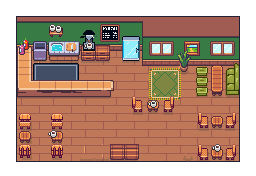
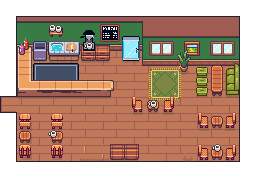
add text messages and cutscenes

Changed region(s): [[0.0, 0.5398, 0.0938, 0.6534]]

diff --git a/OverworldMap.js b/OverworldMap.js
@@ -1,6 +1,7 @@
 class OverworldMap {
     constructor(config) {
         this.gameObjects = config.gameObjects;
+        this.cutsceneSpaces = config.cutsceneSpaces || {}; 
         this.walls = config.walls || {};
 
         this.lowerImage = new Image();
@@ -31,7 +32,7 @@ class OverworldMap {
 
     isSpaceTaken(currentX, currentY, direction) {
         const {x,y} = utils.nextPosition(currentX, currentY, direction);
-        return this.walls[`${x}, ${y}`] || false; // true if wall is there
+        return this.walls[`${x},${y}`] || false; // true if wall is there
     }
 
     mountObjects() {
@@ -64,15 +65,36 @@ class OverworldMap {
         
         // reset NPCs to do idle behavior
         // CHANGE THIS LATER IN PART 17
-        Object.values(this.gameObjects.forEach(object => object.doBehaviorEvent(this)));
+       // Object.values(this.gameObjects.forEach(object => object.doBehaviorEvent(this)));
+    }
+
+
+    checkForActionCutscene() {
+        const hero = this.gameObjects["hero"];
+        const nextCoords = utils.nextPosition(hero.x, hero.y, hero.direction);
+        const match = Object.values(this.gameObjects).find(object => {
+            return `${object.x},${object.y}` === `${nextCoords.x},${nextCoords.y}`
+        });
+        if (!this.isCutscenePlaying && match && match.talking.length) {
+            this.startCutscene(match.talking[0].events);
+        }
+    }
+
+    checkForFootstepCutscene() {
+        const hero = this.gameObjects["hero"];
+        const match = this.cutsceneSpaces[ `${hero.x},${hero.y}` ];
+        console.log({ match });
+        if (!this.isCutscenePlaying && match) {
+            this.startCutscene(match[0].events);
+        }
     }
 
     addWall(x,y) {
-        this.walls[`${x}, ${y}`] = true;
+        this.walls[`${x},${y}`] = true;
     }
 
     removeWall(x,y) {
-        delete this.walls[`${x}, ${y}`]
+        delete this.walls[`${x},${y}`]
     }
 
     moveWall(wasX,wasY, direction) {
@@ -101,6 +123,15 @@ window.OverworldMaps = {
                     { type: "stand", direction: "up", time: 800 },
                     { type: "stand", direction: "right", time: 1200 },
                     { type: "stand", direction: "up", time: 300 }, // loops
+                ],
+                talking: [
+                    {
+                        events: [
+                            {type: "textMessage", text: "can I help you?", faceHero:"npcA"},
+                            {type: "textMessage", text: "I'm busy"},
+                            {who: "hero", type: "walk", direction: "up"},
+                        ]
+                    },
                 ]
             }),
             npcB: new Person({
@@ -113,6 +144,14 @@ window.OverworldMaps = {
                     { type: "walk", direction: "down" },
                     { type: "walk", direction: "right" }, 
                     { type: "walk", direction: "up" },
+                ]
+            }),
+            npcC: new Person({
+                x: utils.withGrid(2),
+                y: utils.withGrid(7),
+                src: "/images/npc2.png",
+                behaviorLoop: [ // idle behavior loop
+                    { type: "stand", direction: "left" },
                 ]
             }),
         },
@@ -223,12 +262,26 @@ window.OverworldMaps = {
             [utils.asGridCoord(0,2)] : true,
             [utils.asGridCoord(0,3)] : true,
             [utils.asGridCoord(0,4)] : true,
-            [utils.asGridCoord(0,5)] : true,
+            //[utils.asGridCoord(0,5)] : true,
+            [utils.asGridCoord(-1,5)] : true,
             [utils.asGridCoord(0,6)] : true,
             [utils.asGridCoord(0,7)] : true,
             [utils.asGridCoord(0,8)] : true,
             [utils.asGridCoord(0,9)] : true,
             [utils.asGridCoord(0,10)] : true,
+        },
+        cutsceneSpaces: {
+            [utils.asGridCoord(0,5)] : [
+                {
+                    events: [
+                        {who: "npcC", type: "walk", direction: "up"},
+                        {who: "npcC", type: "stand", direction: "up", time: 500},
+                        {type: "textMessage", text: "Hey, your shift isn't over!"},
+                        {who: "hero", type: "walk", direction: "right"},
+                        {who: "npcC", type: "walk", direction: "down"},
+                    ]
+                }
+            ]
         }
     },
     Cafe2: {

diff --git a/Overworld.js b/Overworld.js
@@ -41,9 +41,28 @@ class Overworld {
     step();
  }
 
+ bindActionInput() {
+    new KeyPressListener("Enter", () => {
+        // is there a person here to talk to?
+        this.map.checkForActionCutscene();
+    })
+ }
+
+ bindHeroPositionCheck() {
+    document.addEventListener("PersonWalkingComplete", e => {
+        if (e.detail.whoId === "hero") {
+            // hero's position has changed
+            this.map.checkForFootstepCutscene()
+        }
+    })
+ }
+
  init(){
     this.map = new OverworldMap(window.OverworldMaps.Cafe); // config data from cafe
     this.map.mountObjects();
+
+    this.bindActionInput();
+    this.bindHeroPositionCheck();
 
     this.directionInput = new DirectionInput();
     this.directionInput.init();
@@ -52,18 +71,18 @@ class Overworld {
 
     this.startGameLoop();
 
-    this.map.startCutscene([
-        { who: "hero", type: "walk", direction: "up" },
-        { who: "hero", type: "walk", direction: "right" },
-        { who: "npcB", type: "walk", direction: "left" },
-        { who: "npcB", type: "walk", direction: "left" },
-        { who: "npcB", type: "walk", direction: "left" },
-        { who: "npcB", type: "walk", direction: "down" },
-        { who: "npcB", type: "walk", direction: "down" },
-        { who: "npcB", type: "stand", direction: "left", time: 200 },
-        {type: "textMessage", text: "hey girl!"},
+    // this.map.startCutscene([
+    //     { who: "hero", type: "walk", direction: "up" },
+    //     { who: "hero", type: "walk", direction: "right" },
+    //     { who: "npcB", type: "walk", direction: "left" },
+    //     { who: "npcB", type: "walk", direction: "left" },
+    //     { who: "npcB", type: "walk", direction: "left" },
+    //     { who: "npcB", type: "walk", direction: "down" },
+    //     { who: "npcB", type: "walk", direction: "down" },
+    //     { who: "npcB", type: "stand", direction: "left", time: 200 },
+    //     {type: "textMessage", text: "hey girl!"},
 
-    ])
+    // ])
     
 
 //     // whenever init, we will create a new image, assign source, download it, and when the source is downloaded,

diff --git a/OverworldEvent.js b/OverworldEvent.js
@@ -6,8 +6,6 @@ class OverworldEvent {
 
     stand(resolve) {
         const who = this.map.gameObjects[ this.event.who ];
-        console.log(who);
-        console.log(this.event);
         who.startBehavior({
             map: this.map
         }, {
@@ -29,8 +27,6 @@ class OverworldEvent {
     walk(resolve) {
         // call resolve when done
         const who = this.map.gameObjects[ this.event.who ];
-        console.log(who);
-        console.log(this.event);
         who.startBehavior({
             map: this.map
         }, {
@@ -50,6 +46,12 @@ class OverworldEvent {
     }
 
     textMessage(resolve) {
+
+        if (this.event.faceHero) {
+            const obj = this.map.gameObjects[this.event.faceHero];
+            obj.direction = utils.oppositeDirection(this.map.gameObjects["hero"].direction);
+        }
+
         const message = new TextMessage({
             text: this.event.text,
             onComplete: () => resolve()

diff --git a/KeyPressListener.js b/KeyPressListener.js
@@ -1,0 +1,25 @@
+class KeyPressListener {
+    constructor(keyCode, callback) {
+        let keySafe = true;
+        this.keydownFunction = function(event) {
+            if(event.code === keyCode) {
+                if(keySafe) {
+                    keySafe = false;
+                    callback();
+                }
+            }
+        };
+        this.keyupFunction = function(event) {
+            if (event.code === keyCode) {
+                keySafe = true;
+            }
+        };
+        document.addEventListener("keydown", this.keydownFunction);
+        document.addEventListener("keyup", this.keyupFunction);
+    }
+
+    unbind() {
+        document.removeEventListener("keydown", this.keydownFunction);
+        document.removeEventListener("keyup", this.keyupFunction);
+    }
+}

diff --git a/styles/TextMessage.css b/styles/TextMessage.css
@@ -1,3 +1,4 @@
+@import url('https://fonts.googleapis.com/css?family=Press+Start+2P&display=swap');
 .TextMessage {
     position: absolute;
     left: 0;
@@ -12,19 +13,21 @@
 
 .TextMessage_p {
     margin: 0;
-    font-size: 12px;
+    font-size: 8px;
     padding-left: 10px;
+    font-family: "Press Start 2P", monospace;
 }
 
 .TextMessage_button {
     margin: 0;
     font-size: 8px;
     padding: 0;
-    /* -webkit-appearance: none; */
+    -webkit-appearance: none;
     background: none;
     border: 0;
-    font-family: inherit;
+    font-family: "Press Start 2P", monospace;
     cursor: pointer;
+    display:block;
 
     position: absolute;
     right: 2px;

diff --git a/GameObject.js b/GameObject.js
@@ -12,6 +12,8 @@ class GameObject {
 
         this.behaviorLoop = config.behaviorLoop || [];
         this.behaviorLoopIndex = 0;
+
+        this.talking = config.talking || [];
     }
 
     mount(map) {
@@ -39,7 +41,6 @@ class GameObject {
         // setting up our event with relevant info
         let eventConfig = this.behaviorLoop[this.behaviorLoopIndex];
         eventConfig.who = this.id; // hero, npcA, npcB
-        console.log(this.behaviorLoopIndex);
 
         // create an event instance out of our next event config
         const eventHandler = new OverworldEvent({ map, event: eventConfig }); // overworld event will contain instructions

diff --git a/utils.js b/utils.js
@@ -3,7 +3,7 @@ const utils = {
         return n * 16;
     },
     asGridCoord(x,y) {
-        return `${x*16}, ${y*16}`
+        return `${x*16},${y*16}`
     },
     nextPosition(initialX, initialY, direction) {
         let x = initialX;
@@ -20,6 +20,13 @@ const utils = {
         }
         return {x,y};
     },
+    oppositeDirection(direction) {
+        if(direction === "left") { return "right" }
+        if(direction === "right") { return "left" }
+        if(direction === "up") { return "down" }
+        return "up"
+    },
+
     emitEvent(name, detail) {
         const event = new CustomEvent(name, {
             detail

diff --git a/index.html b/index.html
@@ -17,13 +17,14 @@
     <script src="index.js" type="module"></script>
     <script src="/utils.js"></script>
     <script src="/DirectionInput.js"></script>
-    <script src="/TextMessage.js"></script>
     <script src="/Overworld.js"></script>
     <script src="/GameObject.js"></script>
     <script src="/Person.js"></script>
     <script src="/Sprite.js"></script>
     <script src="/OverworldMap.js"></script>
     <script src="/OverworldEvent.js"></script>
+    <script src="/TextMessage.js"></script>
+    <script src="/KeyPressListener.js"></script>
 
     <script src="/init.js"></script>
   </body>

diff --git a/TextMessage.js b/TextMessage.js
@@ -16,9 +16,15 @@ class TextMessage {
         `)
 
         this.element.querySelector("button").addEventListener("click", () => {
-            // cloes the text message
+            // close the text message
             this.done();
         });
+
+        this.actionListener = new KeyPressListener("Enter", () => {
+            console.log("Enter!!");
+            this.actionListener.unbind();
+            this.done();
+        })
     }
 
 
